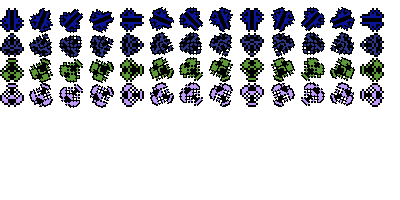
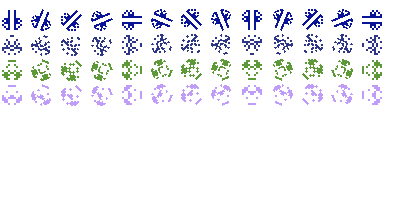
change ships

Changed region(s): [[0.0, 0.03, 0.96, 0.54]]

diff --git a/public/js/client.js b/public/js/client.js
@@ -17,7 +17,7 @@
 
 		//turn the sprite map into usable components
 		Crafty.sprite(28, "../images/ships.png", {
-		    ship: [0, 0]
+		    ship: [0, 3]
 		});
 		Crafty.sprite(1, "../images/suns.png", {
 			sun: [95,0,200,150]
